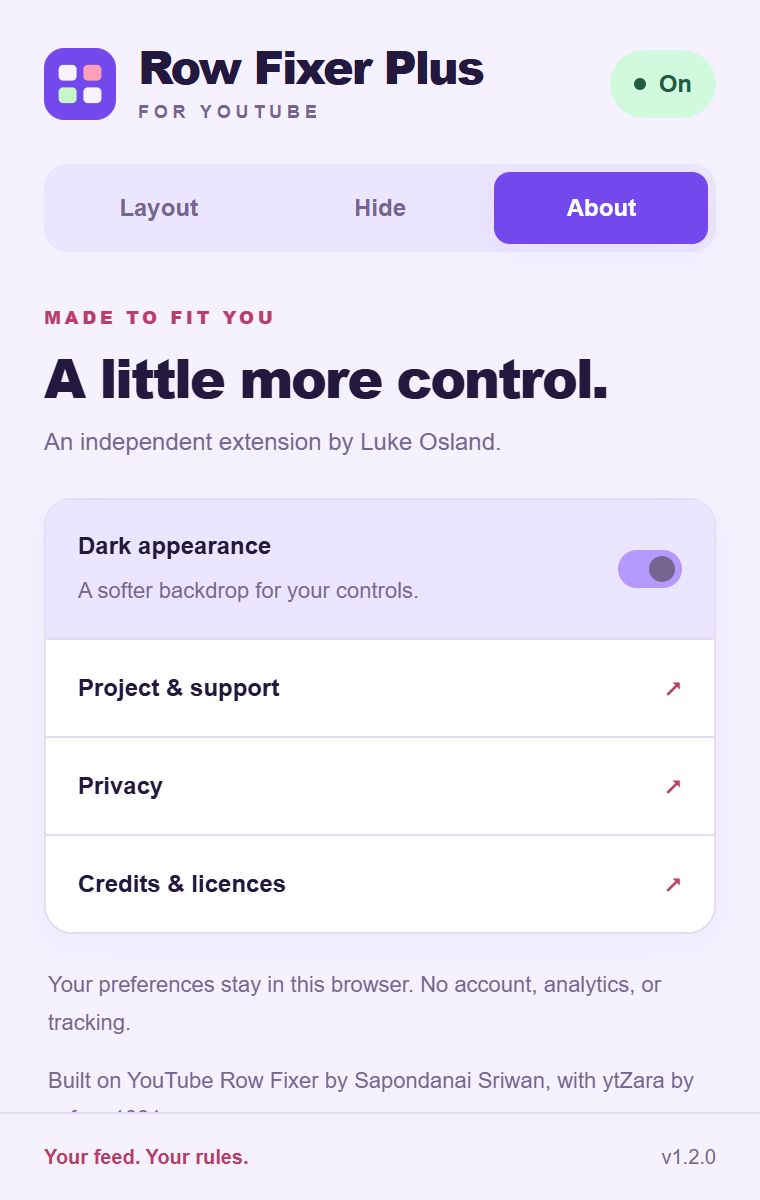
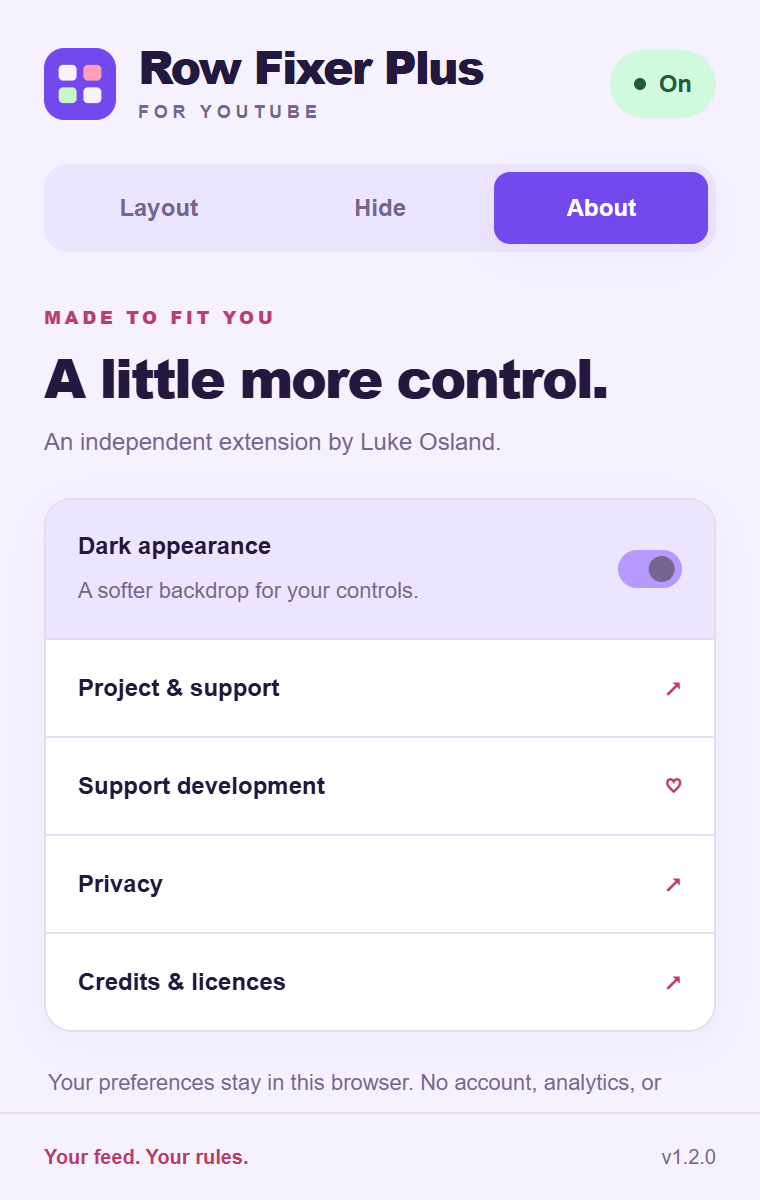
Connect Ko-fi support and add project cover artwork

diff --git a/docs/CHROME_STORE.md b/docs/CHROME_STORE.md
@@ -35,7 +35,7 @@ Use a publicly accessible URL to PRIVACY.md after the release branch is merged, 
 ## Still needed before submission
 
 1. Register or use your Chrome Web Store developer account, complete its verification requirements, and pay its one-time fee if necessary.
-2. Supply your donation URL if you want the optional support link enabled. Set donationUrl in src/data/brand.json and rebuild. Update .github/FUNDING.yml only with your own account.
+2. The optional support link points to https://ko-fi.com/lukeosland, configured in src/data/brand.json. The GitHub funding link uses the same account in .github/FUNDING.yml.
 3. Confirm the final name, design, and listing text. Verify the final Chrome package in an actual browser, including enabled/disabled state after restart.
 4. Review the prepared images in docs/store-assets: two 1280×800 screenshots and a 440×280 promotional tile. The 128-pixel package icon includes transparent padding. Avoid claims that the original project is abandoned.
 5. Upload zip/Chrome v1.2.0.zip, complete the privacy fields and permission justifications, and submit for review. This project has not been submitted or published by Codex.
